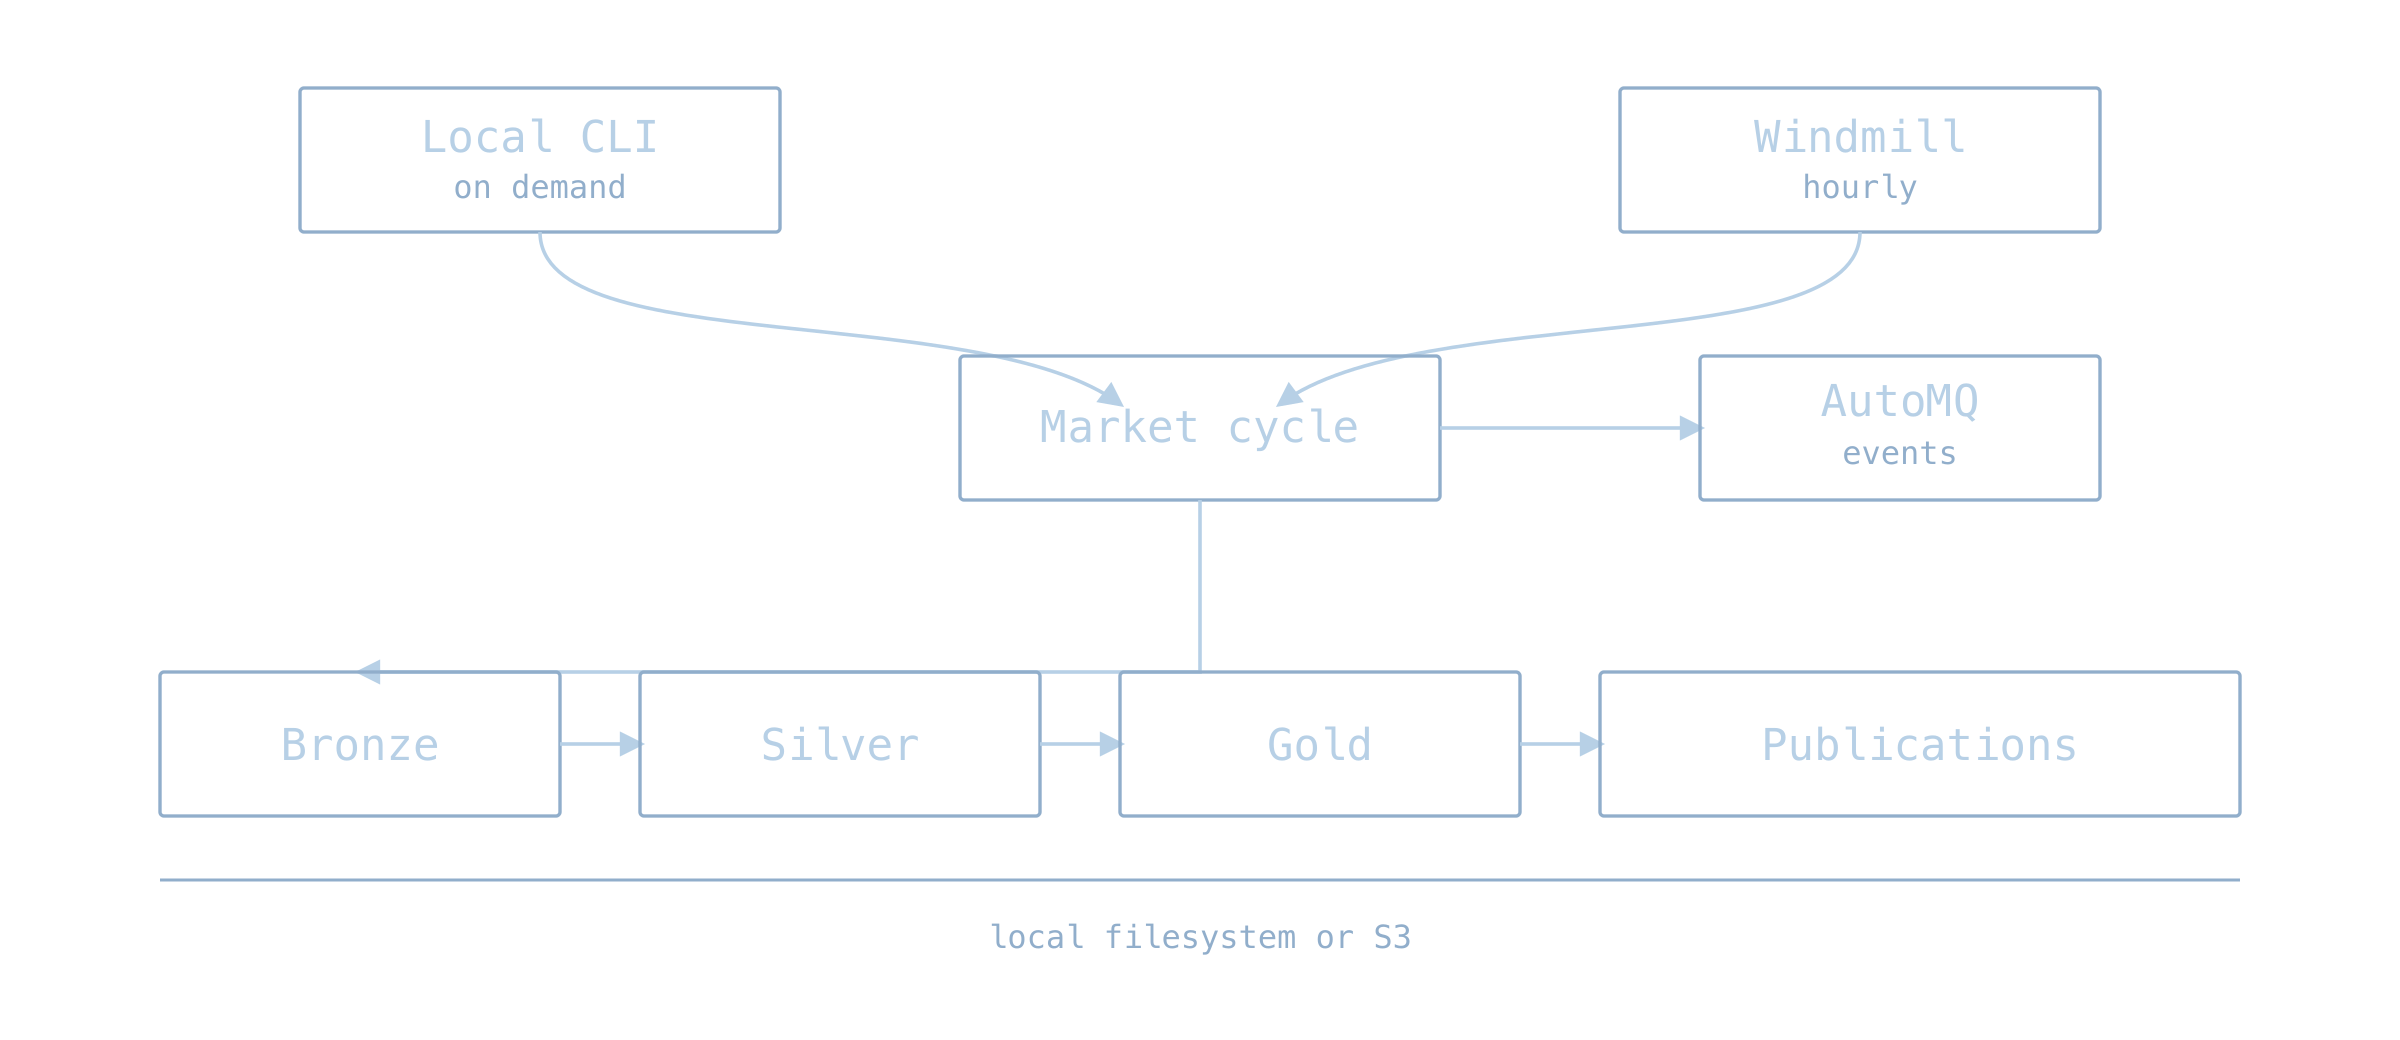
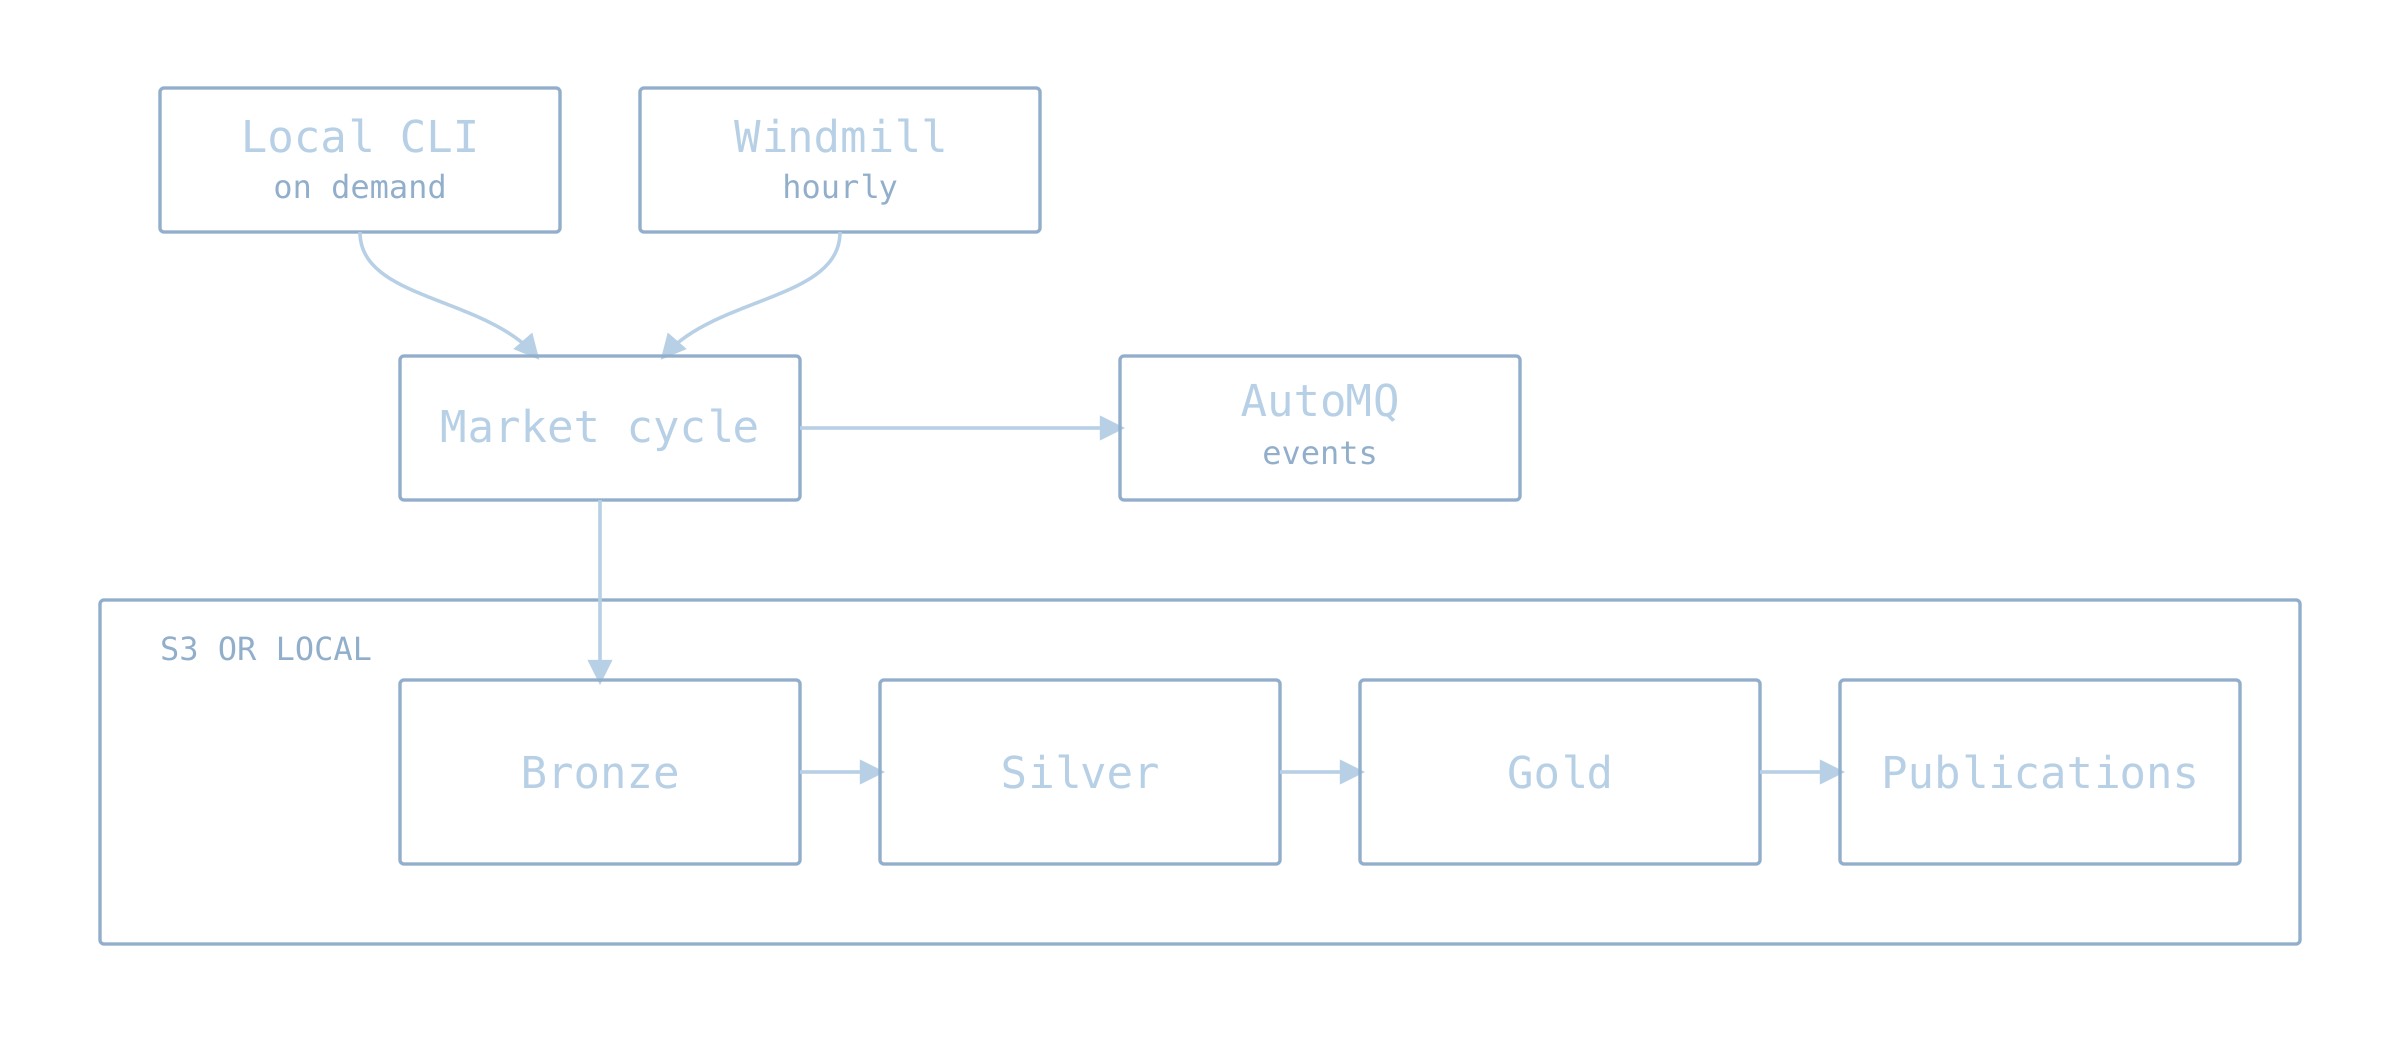
Refine pipeline diagram

diff --git a/infra/windmill/README.md b/infra/windmill/README.md
@@ -1,7 +1,7 @@
 # Pipeline
 
-The pipeline preserves market data, normalizes offers, builds models, and
-publishes outputs. Run the same cycle locally or hourly with Windmill.
+The pipeline gathers market data, normalizes offers, builds models, and
+publishes. Run the same cycle locally or hourly with Windmill.
 
 <p align="center">
   <picture>
